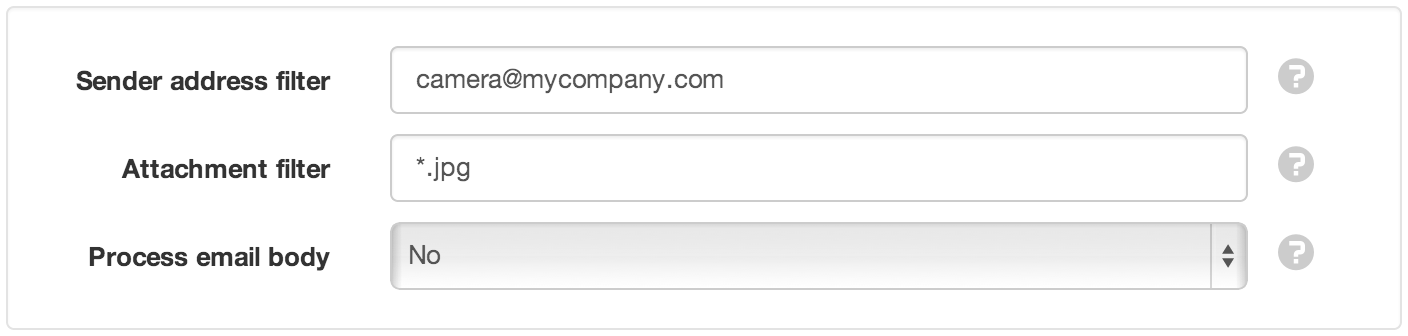
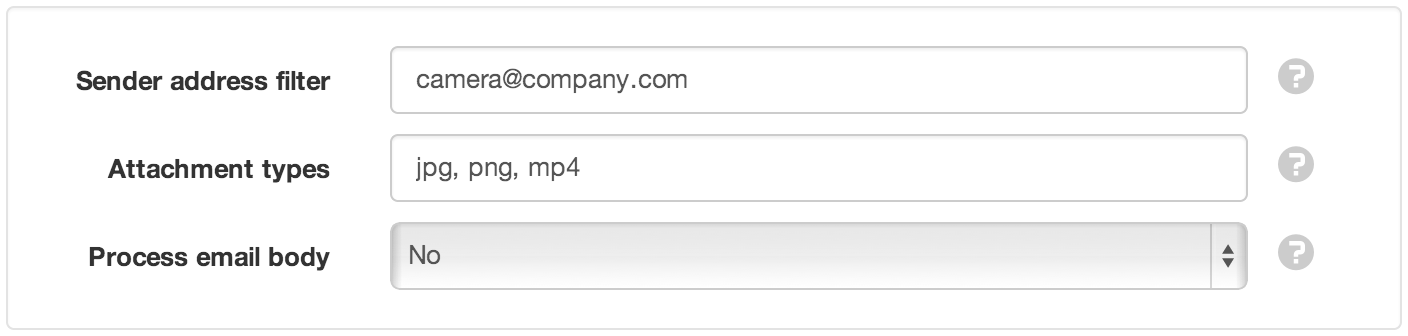
updates attachmentSource file filter format/description

Changed region(s): [[0.0625, 0.4762, 0.25, 0.5357], [0.375, 0.2083, 0.5312, 0.2679], [0.2812, 0.4762, 0.4062, 0.5357]]

diff --git a/source/topics/nodes/attachmentsource.rst b/source/topics/nodes/attachmentsource.rst
@@ -97,8 +97,8 @@ Collection is used to specify filter and processing options for attachment colle
 Sender address filter
 	For added security you can filter attachments by sender email address. Restrict to a specific email address or use \* to match multiple addresses from the same domain. Example: \*@company.com
 
-Attachment filter
-	Enter an attachment filter to restrict the files(s) that get saved as attachments. Use \* as a wildcard character. Example: \*.jpg to save all jpg images.
+Attachment types
+	Restrict which file(s) get processed as Attachments by specifying a comma separated list of file extensions. eg. *jpg, png, mp4* will process standard media files and ignore all other file types.
 
 Process email body
 	Specify if the email message body should also be processed:
